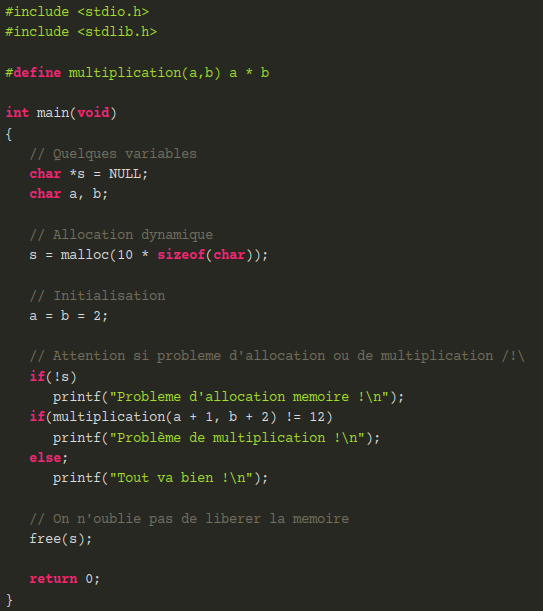
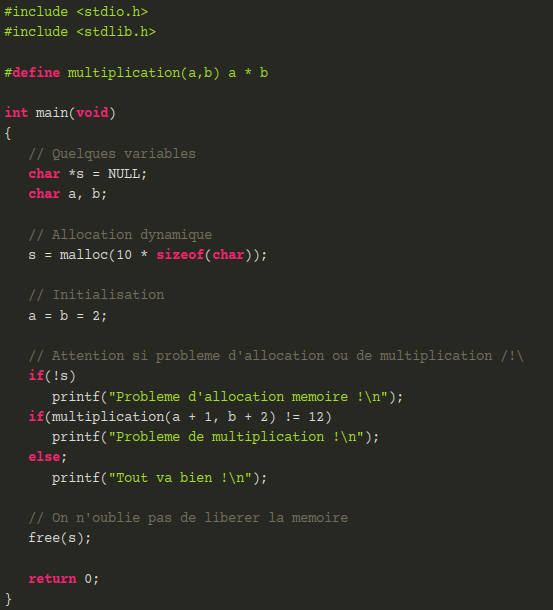
Fixed typo

diff --git a/c_puzzles/original_post/challenge2.c b/c_puzzles/original_post/challenge2.c
@@ -19,7 +19,7 @@ int main(void)
    if(!s)
       printf("Probleme d'allocation memoire !\n");
    if(multiplication(a + 1, b + 2) != 12)
-      printf("Problème de multiplication !\n");
+      printf("Probleme de multiplication !\n");
    else;
       printf("Tout va bien !\n");
 
